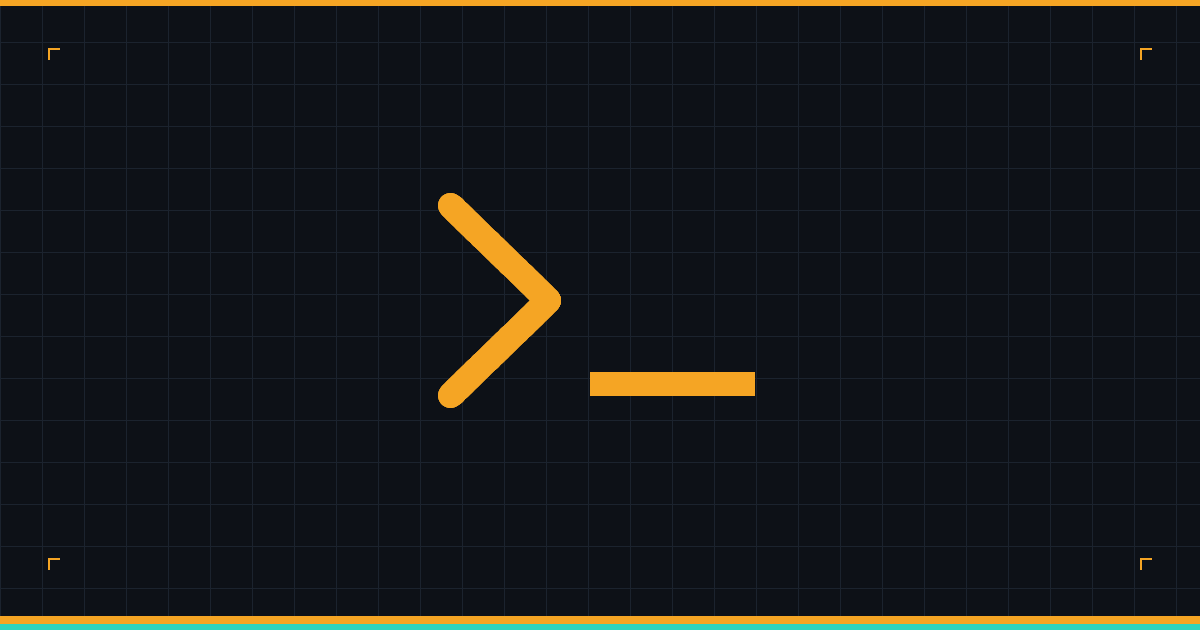
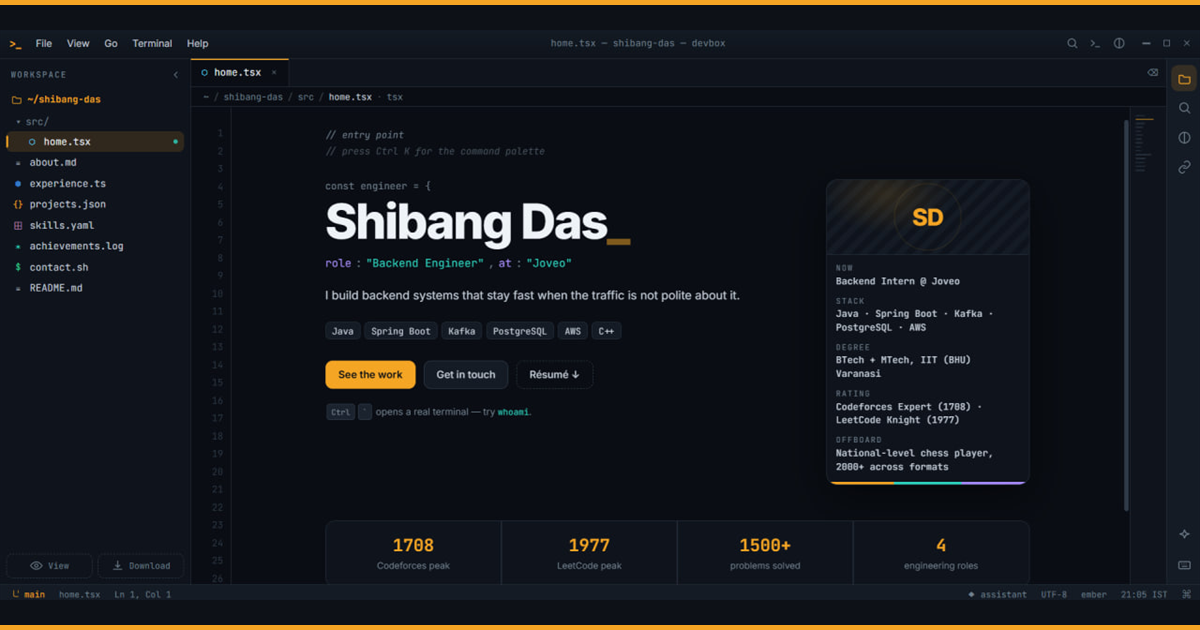
Use the workbench screenshot as the link preview
Replaces the generated placeholder with the real UI — the file tree,
the hero, the ID card and the stat strip all legible at card size,
which sells the project in a way a logo mark cannot.

Fitted rather than cropped. The source is 1280x608, wider than the
1.91:1 a preview card crops to, and centre-cropping sliced the sidebar
labels in half — which reads as a broken screenshot, not a crop. The
frame is scaled to fit and padded on the editor background with the
site's amber rule top and bottom, so the padding reads as chrome.

diff --git a/DEPLOY.md b/DEPLOY.md
@@ -99,7 +99,10 @@ screenshot:
 node tools/make-og.js my-screenshot.png
 ```
 
-That centre-crops to 1.91:1 and scales to 1200x630. After deploying, force the
+That centre-crops to 1.91:1 and scales to 1200x630. It reads PNG only — a
+JPEG screenshot needs re-saving as PNG first. Centre-cropping a full-window
+screenshot can slice the sidebar mid-label; padding the frame to the card
+instead, on the editor background, keeps the whole UI readable. After deploying, force the
 scrape at <https://www.linkedin.com/post-inspector/> — a failed preview is
 cached, so pasting the link again will keep showing the old result.
 
